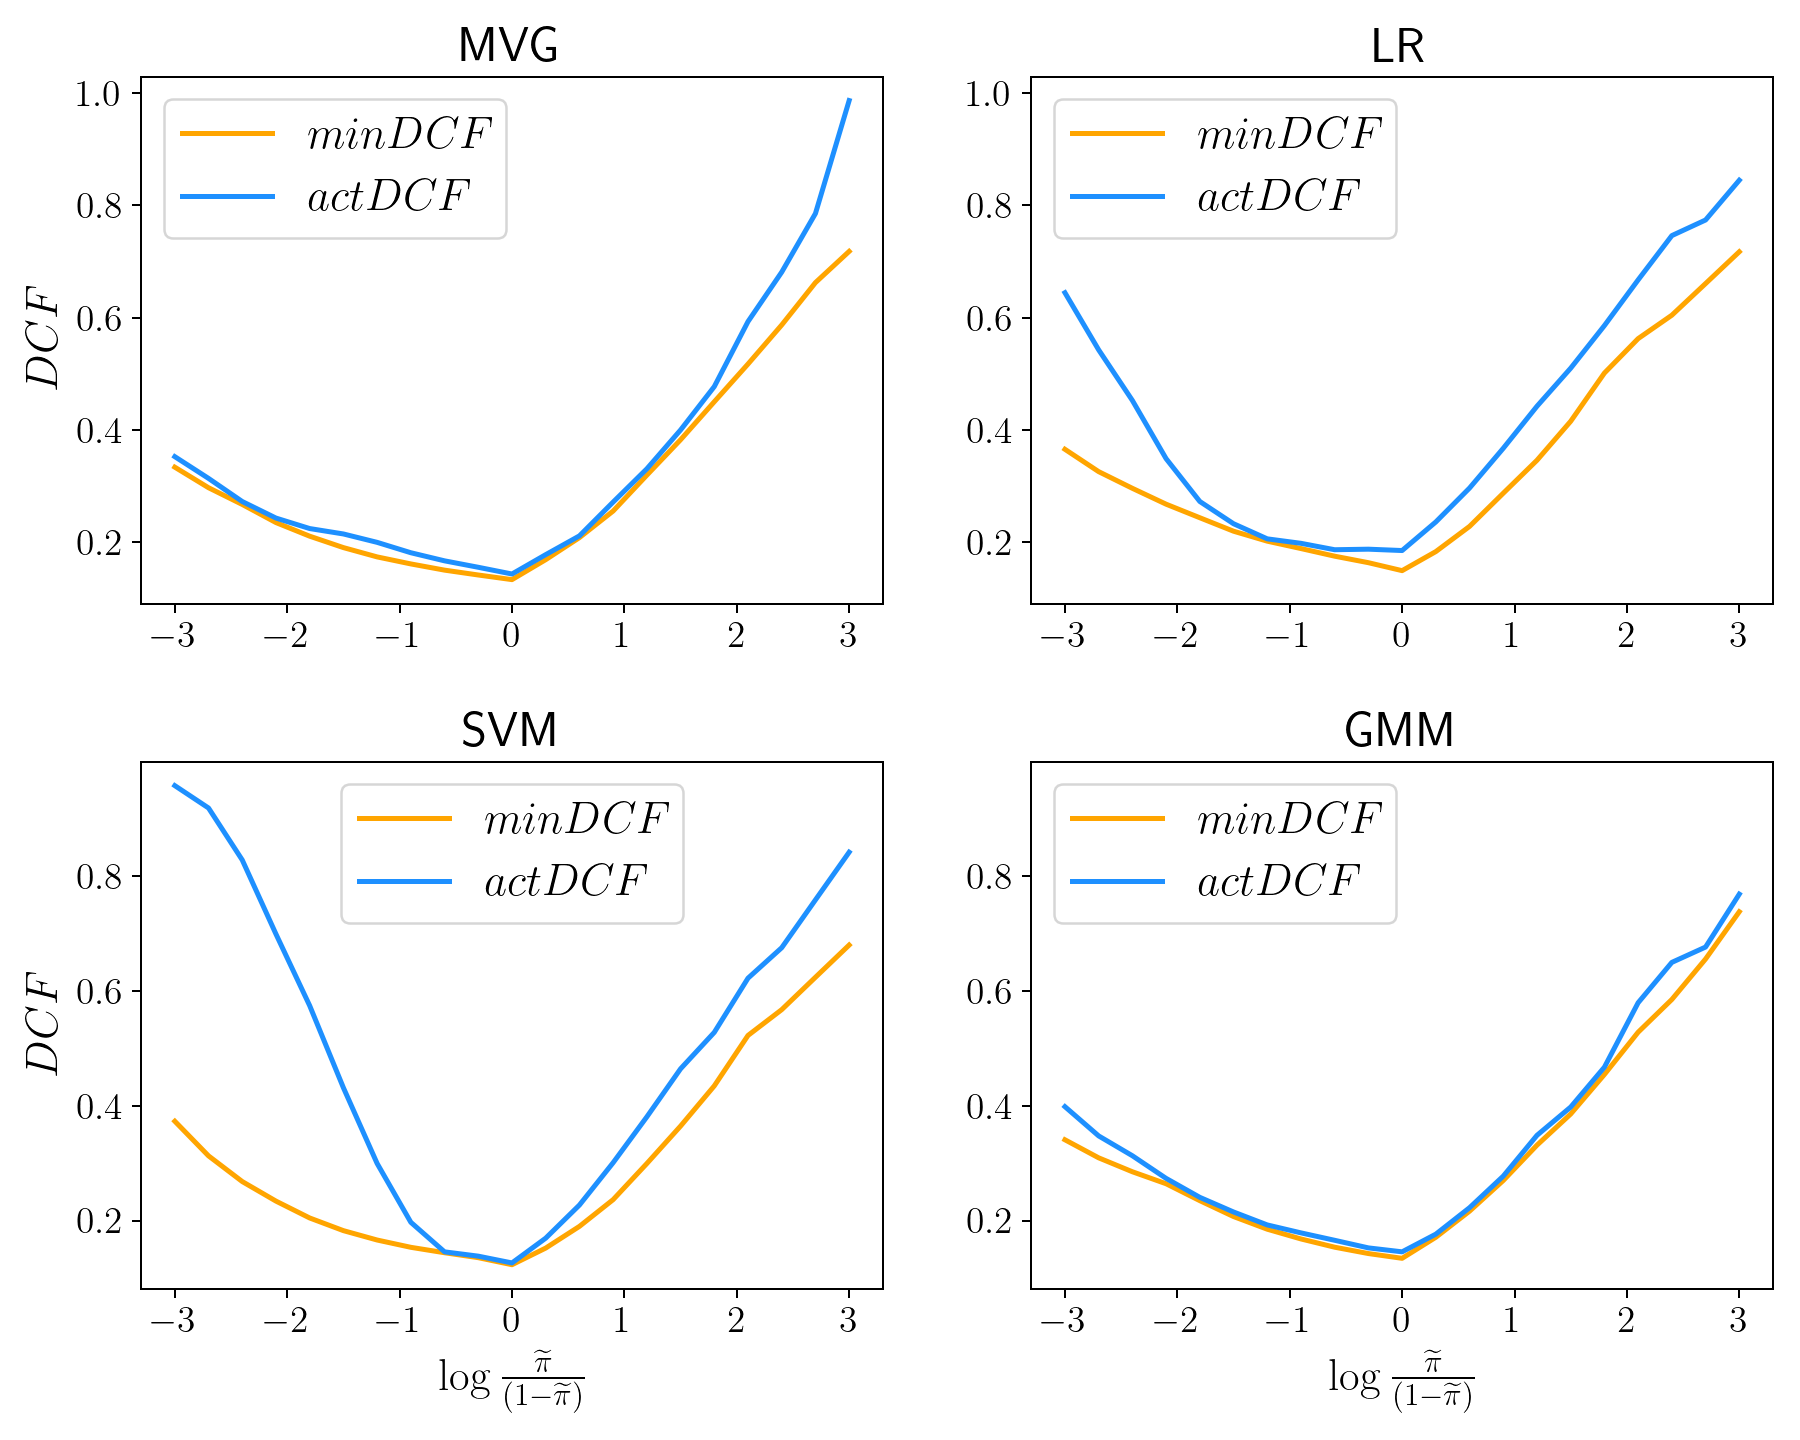
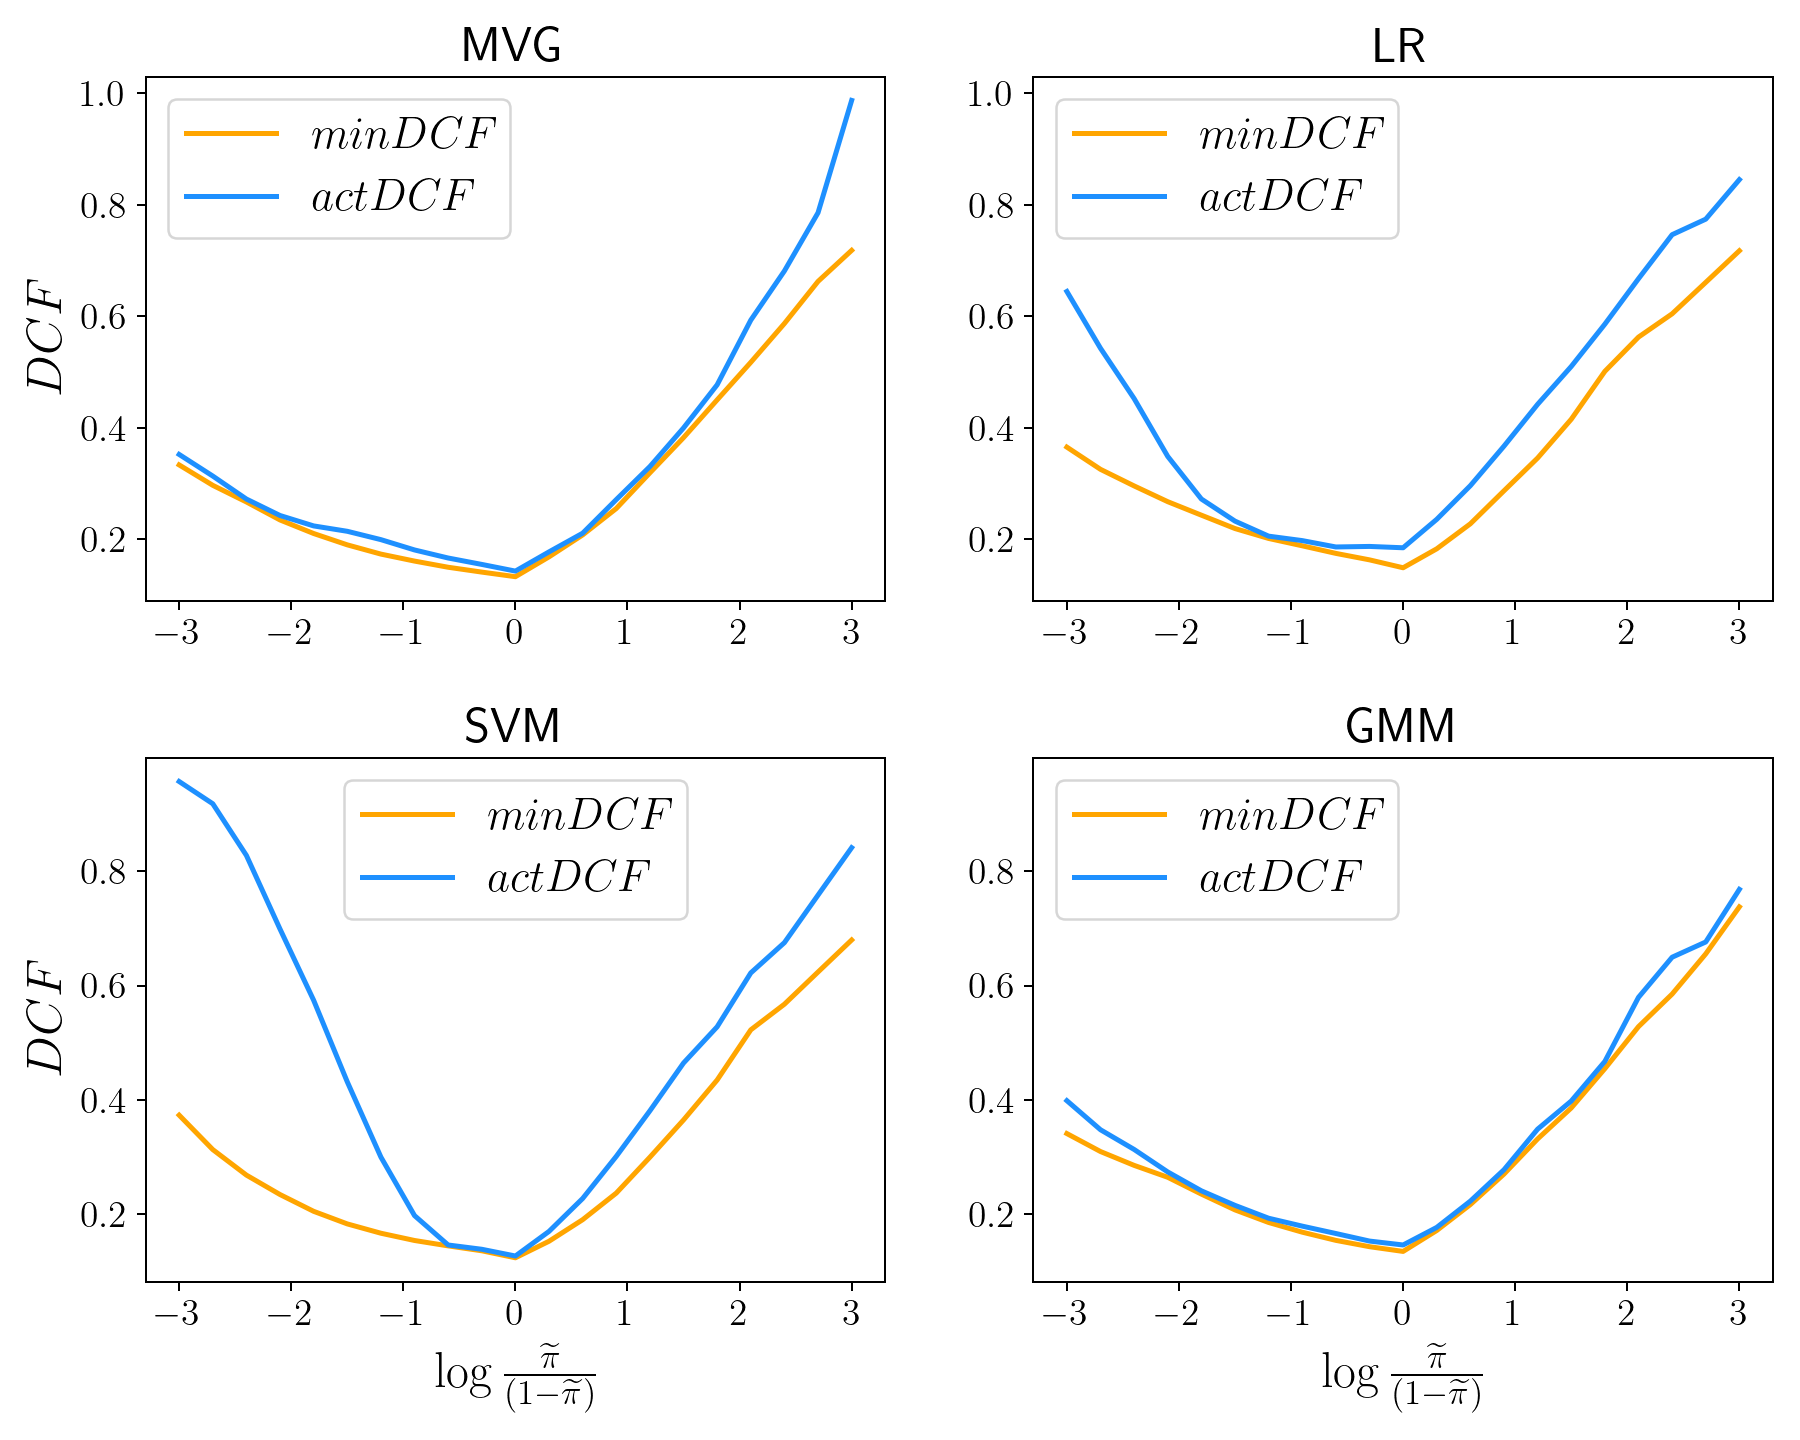
New plots +  minor changes

diff --git a/utils/plot_utils.py b/utils/plot_utils.py
@@ -579,7 +579,7 @@ def bayes_error_plots(classifiers, after=False, evaluation=False):
         "axes.titlesize": 20,
         "xtick.labelsize": 15,
         "ytick.labelsize": 15,
-        "axes.labelsize": 18,
+        "axes.labelsize": 20,
         "legend.fontsize": 18,
         "figure.dpi": 180
     })
